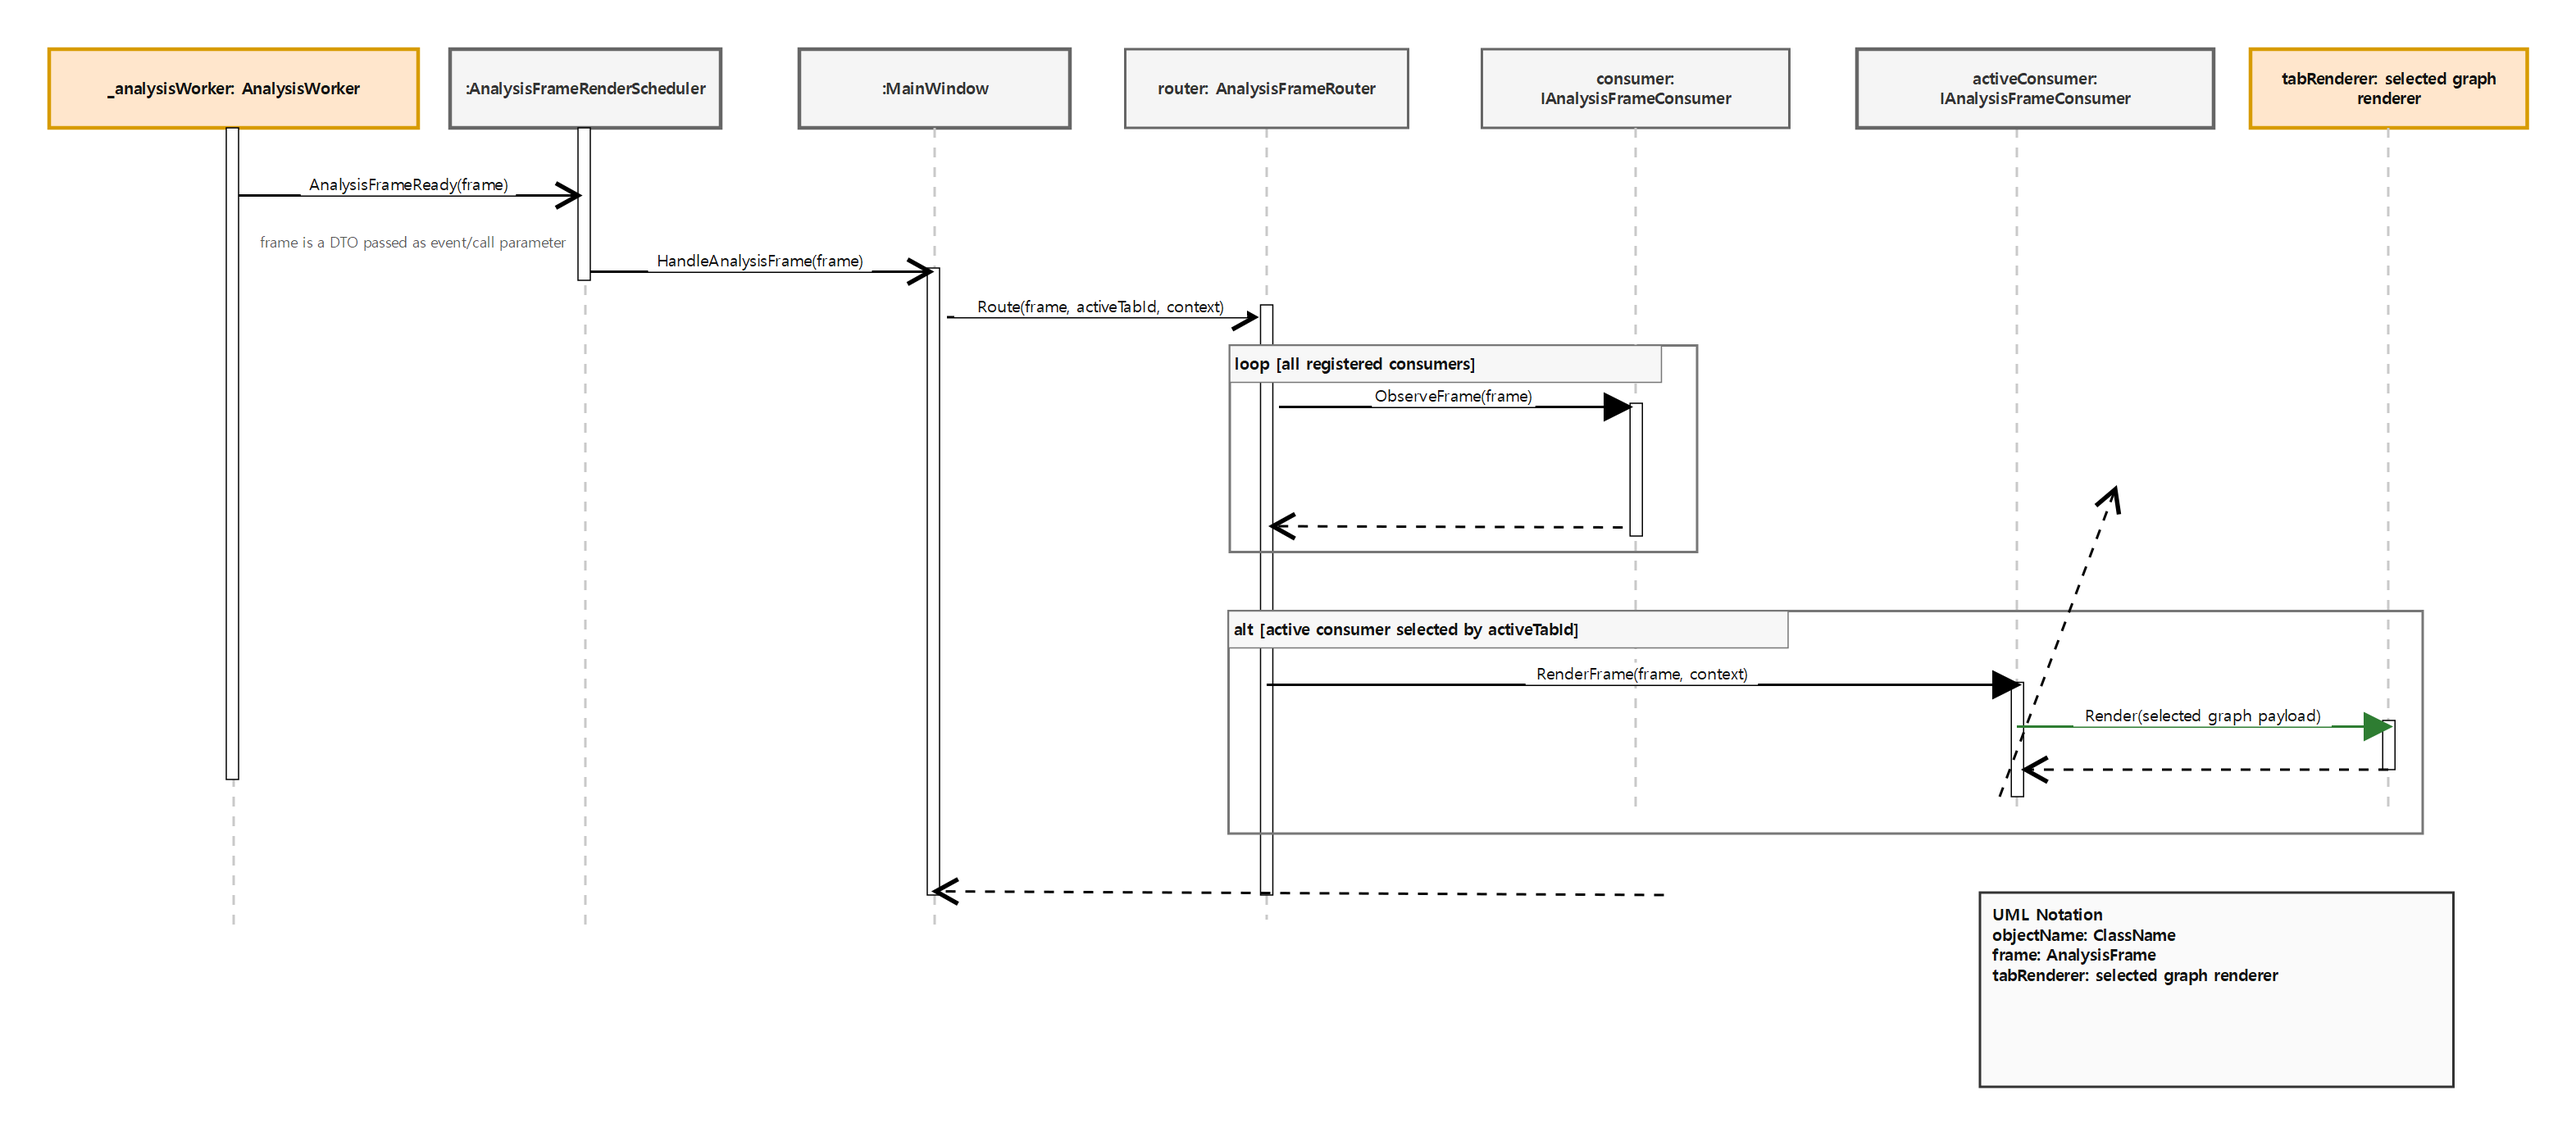
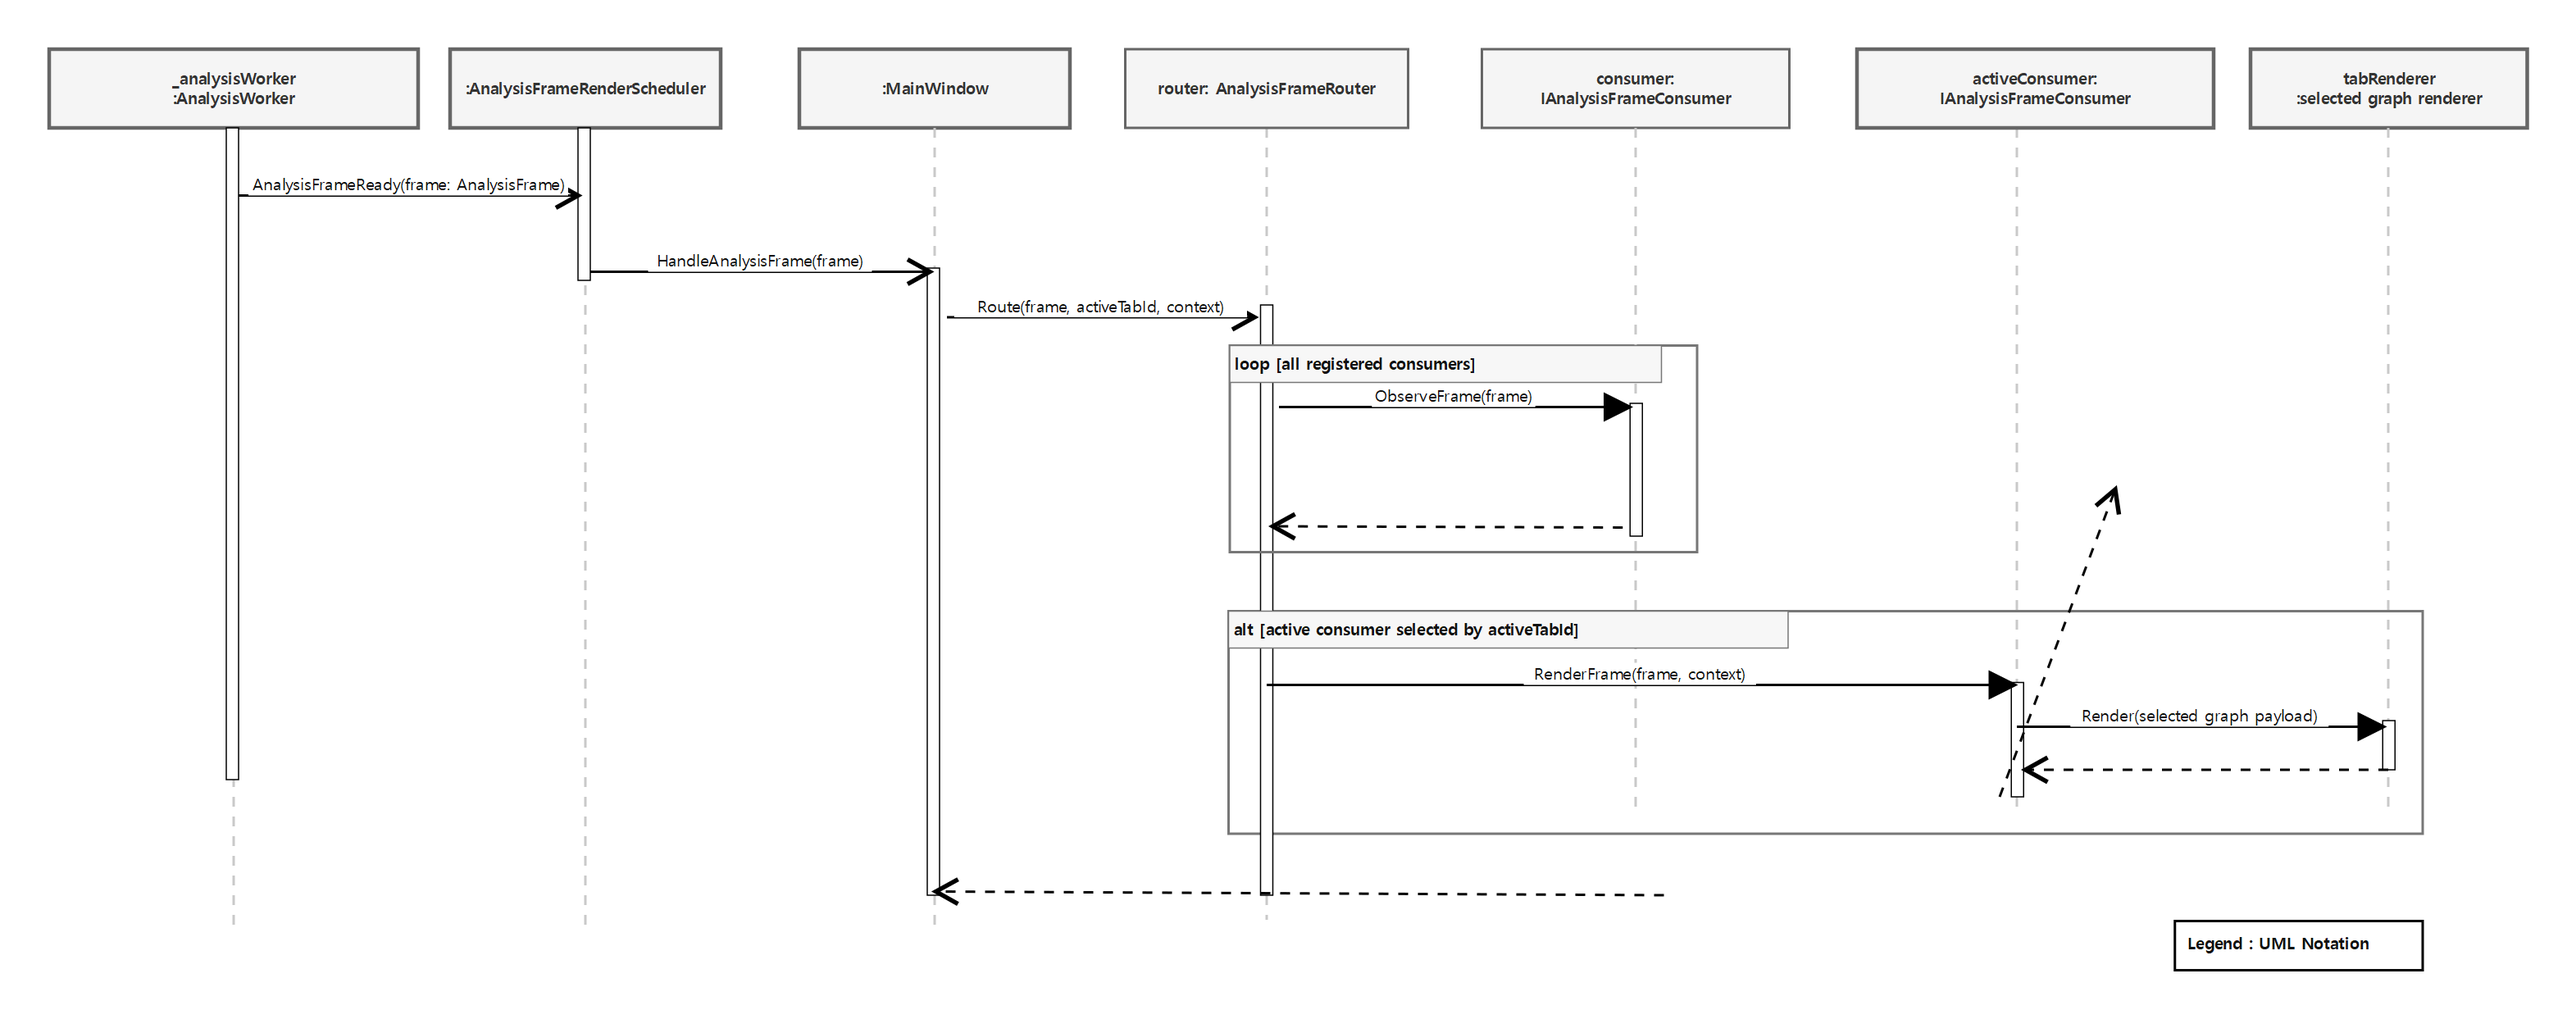
Update AnalysisFrame sequence diagram notes

diff --git a/FinalDemo/assets/2. AnalysysFrame-SequenceDiagram/2-AnalysisFrame-Sequence-Diagram.md b/FinalDemo/assets/2. AnalysysFrame-SequenceDiagram/2-AnalysisFrame-Sequence-Diagram.md
@@ -8,84 +8,91 @@ Rendered preview: [2. AnalysisFrame sequence diagram.png](<2. AnalysisFrame sequ
 
 ## Slide Purpose
 
-이 다이어그램은 `AnalysisFrame`이 Core 분석 결과에서 UI graph rendering까지 전달되는 책임 흐름을 보여준다. 코드 call stack을 1:1로 설명하는 그림이 아니라, 다음 아키텍처 포인트를 보여주는 발표용 sequence view다.
+이 다이어그램은 `AnalysisFrame`이 Core 분석 결과에서 UI graph rendering까지 전달되는 흐름을 보여주는 sequence view이다. 코드 call stack을 전부 보여주기보다, 아키텍처적으로 중요한 책임 분리를 설명하는 그림이다.
 
-- Core는 UI나 graph renderer를 직접 알지 않는다.
-- `AnalysisFrame`은 분석 결과를 묶은 DTO 인스턴스로, 이벤트/메서드 호출의 payload로 전달된다.
-- Router는 모든 graph consumer에 최신 frame을 observe시키고, 실제 rendering은 active graph consumer 하나만 수행한다.
-- 새 graph/display를 추가할 때 변경 지점이 consumer/renderer/catalog 쪽으로 제한된다.
+강조할 포인트는 세 가지다.
 
-Recommended caption under the diagram:
+- Core의 `_analysisWorker: AnalysisWorker`는 UI graph renderer를 직접 알지 않는다.
+- `frame: AnalysisFrame`은 독립 actor가 아니라 `AnalysisFrameReady(frame: AnalysisFrame)` 이벤트/호출에 실려 전달되는 DTO payload이다.
+- Router는 모든 consumer에 `ObserveFrame(frame)`을 호출하지만, 실제 rendering은 `activeTabId`로 선택된 active consumer 하나에만 수행한다.
 
-> Note: `frame` is an `AnalysisFrame` DTO instance carried as message payload, not modeled as an active lifeline.
+## UML Notation
+
+- `_analysisWorker`는 객체/인스턴스 이름이고, `:AnalysisWorker`는 타입이다.
+- `frame: AnalysisFrame`은 메시지 파라미터로 전달되는 DTO 인스턴스를 의미한다.
+- `consumer: IAnalysisFrameConsumer`는 등록된 graph consumer 중 하나를 의미한다.
+- `activeConsumer: IAnalysisFrameConsumer`는 `activeTabId`로 선택된 consumer를 의미한다.
+- `tabRenderer: selected graph renderer`는 활성 탭에 따라 달라지는 실제 graph renderer를 추상화한 표현이다.
 
 ## Component Roles
 
-| Component | Role in this view | What to emphasize |
+| Component | Role | Demo/Presentation Emphasis |
 |---|---|---|
-| `AnalysisWorker` | Core producer | 분석 pipeline 결과를 `AnalysisFrame`으로 묶어 발행한다. UI와 graph consumer를 직접 호출하지 않는다. |
-| `AnalysisFrameRenderScheduler` | UI render scheduler | 들어오는 frame 중 최신 frame을 UI rendering 쪽으로 dispatch한다. UI rendering 부하가 Core 분석 흐름을 직접 막지 않게 한다. |
-| `MainWindow` / UI callback | UI state provider | frame을 받아 현재 active tab, sample rate, review cursor 같은 render context를 붙여 router에 넘긴다. |
-| `AnalysisFrameRouter` | Routing control | 같은 `AnalysisFrame`을 모든 consumer에 `ObserveFrame(frame)`으로 전달하고, active tab에 해당하는 consumer에만 `RenderFrame(frame, context)`를 호출한다. |
-| `IAnalysisFrameConsumer` | Graph-specific adapter | 각 graph가 필요한 payload를 선택한다. 일부 consumer는 inactive 상태에서도 최신 image/history/beat data를 cache/update한다. |
-| `Renderer` | Graph render target | consumer가 고른 payload를 실제 plot/image로 그린다. |
+| `_analysisWorker: AnalysisWorker` | Core producer | 분석 결과를 `AnalysisFrame`으로 묶어 발행한다. UI나 graph renderer를 직접 호출하지 않는다. |
+| `:AnalysisFrameRenderScheduler` | UI render scheduler | 분석 thread에서 들어온 frame을 UI thread rendering 흐름으로 넘기고, 최신 frame 중심으로 처리한다. |
+| `:MainWindow` | UI callback/context owner | 현재 active tab과 rendering context를 붙여 router로 전달한다. |
+| `router: AnalysisFrameRouter` | Routing control | 모든 consumer에 observe를 수행하고, active consumer 하나만 render하도록 분기한다. |
+| `consumer: IAnalysisFrameConsumer` | Registered graph consumer | 각 graph가 필요한 최신 상태를 관찰하거나 cache/update할 수 있다. |
+| `activeConsumer: IAnalysisFrameConsumer` | Selected graph consumer | 현재 선택된 tab의 consumer만 실제 render path로 들어간다. |
+| `tabRenderer: selected graph renderer` | Graph-specific renderer | 선택된 graph view에 맞는 payload를 실제 plot/image로 렌더링한다. |
 
 ## Frame Flow
 
-1. `AnalysisWorker` publishes `AnalysisFrameReady(frame)`.
-   - 여기서 `frame`은 한 번의 analysis pass 결과를 담은 DTO 인스턴스다.
-   - Core는 이 frame을 발행할 뿐, 어떤 UI graph가 그릴지는 모른다.
+1. `_analysisWorker`가 `AnalysisFrameReady(frame: AnalysisFrame)`를 발행한다.
+   - 여기서 `frame`은 이번 analysis pass 결과를 담은 DTO이다.
+   - `frame`을 lifeline으로 세우지 않는 이유는, 스스로 동작을 시작하는 actor가 아니라 메시지 payload이기 때문이다.
 
-2. `AnalysisFrameRenderScheduler` dispatches the latest frame.
-   - UI가 모든 frame을 그대로 다 그리면 비용이 커질 수 있으므로, render scheduler가 UI 쪽 update 흐름을 조절한다.
-   - 발표에서는 "latest-wins scheduling" 정도로 설명하면 충분하다.
+2. `AnalysisFrameRenderScheduler`가 frame을 UI rendering 흐름으로 넘긴다.
+   - UI가 모든 분석 frame을 즉시 렌더링하면 비용이 커질 수 있다.
+   - scheduler는 UI 쪽 처리 빈도와 최신 frame 중심 처리를 담당한다.
 
-3. `MainWindow` / UI callback calls `Route(frame, activeTabId, context)`.
-   - UI layer가 active tab과 rendering context를 제공한다.
-   - `AnalysisFrame` 자체는 UI 상태를 모르고, UI layer가 필요한 context를 붙인다.
+3. `MainWindow`가 `Route(frame, activeTabId, context)`를 호출한다.
+   - `AnalysisFrame`은 분석 결과이고, UI layer가 현재 active tab과 render context를 붙인다.
 
-4. Router loops over all registered consumers.
-   - `ObserveFrame(frame)`은 모든 graph consumer가 최신 frame을 볼 기회를 준다.
-   - 중요한 점은 observe가 곧 rendering은 아니라는 것이다.
+4. Router가 모든 registered consumer에 `ObserveFrame(frame)`을 호출한다.
+   - 이것은 모든 graph consumer가 최신 frame을 볼 기회를 주는 단계이다.
+   - observe는 render와 다르다. inactive graph도 필요한 최신 상태만 가볍게 cache/update할 수 있다.
 
-5. Router renders only the active consumer.
-   - `activeTabId`로 선택된 consumer 하나만 `RenderFrame(frame, context)`를 수행한다.
-   - 이것이 여러 graph를 지원하면서도 rendering work를 active display 중심으로 제한하는 방식이다.
+5. Router가 `activeTabId`로 선택된 consumer 하나에만 `RenderFrame(frame, context)`를 호출한다.
+   - 실제 rendering work는 active graph 중심으로 제한된다.
+   - 이 구조가 graph 수가 늘어나도 UI rendering 부담을 제어하는 근거가 된다.
 
-6. Active consumer selects graph-specific payload and calls renderer.
-   - 예를 들어 Rate/Scope는 series와 marker를, Beat Noise는 beat segment payload를, Spectrogram은 image/metadata payload를 사용한다.
-   - consumer는 frame 전체를 다시 분석하지 않고, 자기 graph에 필요한 payload만 선택한다.
+6. Active consumer가 graph-specific payload를 골라 `tabRenderer`로 전달한다.
+   - 예: Rate/Scope는 series와 marker, Beat Noise는 beat segment payload, Spectrogram은 image/metadata를 사용한다.
+   - graph별 rendering logic은 Core 분석 pipeline과 분리된다.
 
 ## Presenter Script
 
-이 슬라이드는 `AnalysisFrame`이 graph rendering 쪽으로 전달되는 방식을 설명하는 sequence view입니다. 여기서 핵심은 `AnalysisFrame`을 별도의 active lifeline으로 그리지 않았다는 점입니다. `AnalysisFrame`은 runtime에 생성되는 DTO 인스턴스지만, 이 interaction에서는 스스로 메시지를 보내는 객체가 아니라 이벤트와 메서드 호출에 실려 전달되는 payload로 표현했습니다.
+이 그림은 `AnalysisFrame`이 분석 결과에서 graph rendering까지 어떻게 전달되는지 설명하는 sequence diagram입니다.
 
-왼쪽의 `AnalysisWorker`는 Core 분석 pipeline 쪽 producer입니다. 이 컴포넌트가 detection, metrics, image projection 같은 분석 결과를 `AnalysisFrame` 하나로 묶어서 발행합니다. 중요한 점은 Core 쪽 worker가 UI나 특정 graph renderer를 직접 알지 않는다는 것입니다. 이 구조가 Core 무의존성과 변경 범위 제한을 설명할 수 있는 지점입니다.
+왼쪽의 `_analysisWorker: AnalysisWorker`는 Core 쪽 분석 producer입니다. 이 worker는 detection, metrics, image projection 같은 분석 결과를 `AnalysisFrame` 하나로 묶어 `AnalysisFrameReady(frame: AnalysisFrame)` 이벤트로 발행합니다. 중요한 점은 Core worker가 UI나 특정 graph renderer를 직접 호출하지 않는다는 것입니다.
 
-다음 단계는 `AnalysisFrameRenderScheduler`입니다. 이 컴포넌트는 UI rendering 쪽으로 frame을 넘기는 scheduler 역할을 합니다. 모든 분석 frame을 그대로 다 그리려고 하면 UI rendering 비용이 커질 수 있기 때문에, scheduler는 최신 frame 중심으로 UI update를 전달합니다. 발표에서는 "latest-wins dispatch"라고 짧게 설명하면 됩니다.
+여기서 `frame: AnalysisFrame`은 별도 actor가 아니라 메시지에 실려 전달되는 DTO입니다. 그래서 lifeline으로 세우지 않고, 첫 번째 메시지의 파라미터로 표현했습니다. 이 표현이 `AnalysisFrame`의 역할을 가장 정확하게 보여줍니다.
 
-그 다음 `MainWindow` 또는 UI callback은 UI state를 제공하는 위치입니다. 여기서 현재 active tab, sample rate, review cursor 같은 rendering context가 만들어지고, `AnalysisFrameRouter`에 `Route(frame, activeTabId, context)` 형태로 전달됩니다. 즉, `AnalysisFrame`은 분석 결과이고, UI layer가 현재 어떤 graph를 보여줄지에 대한 context를 붙입니다.
+그 다음 `AnalysisFrameRenderScheduler`가 이 frame을 UI rendering 흐름으로 넘깁니다. UI는 모든 frame을 무조건 즉시 그리는 것이 아니라 최신 frame 중심으로 처리합니다. 이 부분은 rendering 비용을 제어하는 역할을 합니다.
 
-Router의 책임은 두 단계입니다. 먼저 모든 registered consumer에 `ObserveFrame(frame)`을 호출합니다. 이것은 모든 graph가 최신 frame을 관찰할 수 있게 하는 단계입니다. 하지만 observe는 render와 다릅니다. 일부 graph는 inactive 상태에서도 최신 image나 history를 cache할 수 있고, 필요 없는 consumer는 단순히 frame을 무시할 수도 있습니다.
+UI callback인 `MainWindow`는 현재 active tab과 rendering context를 붙여 `AnalysisFrameRouter`에 `Route(frame, activeTabId, context)` 형태로 넘깁니다. 즉 frame 자체는 분석 결과이고, 어떤 graph를 보여줄지에 대한 UI 상태는 UI layer에서 붙습니다.
 
-그 다음 router는 `activeTabId`로 선택된 consumer 하나에만 `RenderFrame(frame, context)`를 호출합니다. 이 부분이 active graph rendering path입니다. 여러 graph를 지원하지만 실제 rendering work는 active display 중심으로 제한됩니다. 이 구조 덕분에 새 graph를 추가할 때도 Core detection/metrics hot path를 건드리지 않고, consumer와 renderer를 추가하는 방향으로 변경 범위를 제한할 수 있습니다.
+Router의 핵심은 두 단계입니다. 먼저 모든 registered consumer에 `ObserveFrame(frame)`을 호출합니다. 이 단계는 모든 graph consumer가 최신 frame을 볼 수 있게 해줍니다. 하지만 observe는 render가 아닙니다.
 
-마지막으로 active consumer는 `AnalysisFrame`에서 자기 graph에 필요한 payload만 선택해서 renderer에 넘깁니다. 예를 들어 Rate/Scope는 series와 marker를 보고, Beat Noise는 beat segment data를 보고, Spectrogram은 image와 metadata를 봅니다. 이 말은 graph별 rendering logic이 Core 분석 pipeline과 분리되어 있다는 뜻입니다.
+그 다음 `activeTabId`로 선택된 `activeConsumer` 하나에만 `RenderFrame(frame, context)`를 호출합니다. 그래서 실제 graph rendering work는 현재 선택된 tab 하나에 집중됩니다. 이 구조 덕분에 graph가 늘어나도 Core hot path를 건드리지 않고, UI rendering 부담도 active graph 중심으로 제한할 수 있습니다.
+
+마지막 `tabRenderer: selected graph renderer`는 고정된 단일 클래스가 아니라, 선택된 graph에 따라 달라지는 실제 renderer를 추상화한 표현입니다. 예를 들어 Rate/Scope, Beat Noise, Spectrogram은 서로 다른 payload를 사용하지만, 전체 흐름은 같은 `AnalysisFrame` 계약과 router 구조를 통해 연결됩니다.
 
 ## If Asked
 
-**Q. Why is `AnalysisFrame` not drawn as a lifeline?**  
-`AnalysisFrame` exists at runtime, but here it is a DTO instance carried as message payload. It does not initiate behavior in this interaction, so modeling it as a parameter keeps the diagram focused.
+**Q. 왜 `AnalysisFrame`을 lifeline으로 그리지 않았나?**  
+`AnalysisFrame`은 runtime에 존재하는 객체이지만 이 interaction에서 행동 주체가 아니다. 이벤트/메서드 호출에 실려 전달되는 DTO payload이므로 메시지 파라미터로 표현하는 것이 더 정확하다.
 
-**Q. Why do all consumers observe the frame?**  
-Because inactive graphs may still need to keep latest state, such as image, metadata, history, or beat windows. Observe gives each consumer a chance to update lightweight state without forcing all graphs to render.
+**Q. 왜 모든 consumer에 observe를 호출하나?**  
+inactive graph도 최신 image, metadata, history, beat window 같은 상태를 cache/update해야 할 수 있기 때문이다. observe는 render가 아니라 lightweight state update 기회이다.
 
-**Q. Why render only the active consumer?**  
-Rendering every graph on every frame would increase UI work. The router keeps display work focused on the active graph while still allowing other consumers to observe latest data.
+**Q. 왜 active consumer만 render하나?**  
+모든 graph를 매 frame마다 렌더링하면 UI 비용이 커진다. active tab 하나만 render하여 display work를 제한한다.
 
-**Q. What architecture quality does this support?**  
-This supports modifiability and performance/resource control. New displays can be added through predictable UI-side extension points, while Core analysis remains independent of graph-specific rendering.
+**Q. 어떤 QAS와 연결되나?**  
+Modifiability와 performance/resource control을 설명하기 좋다. 새 graph display는 consumer/renderer/catalog 쪽으로 추가되고, Core analysis hot path와 graph-specific rendering은 분리된다.
 
 ## One-Sentence Summary
 
-`AnalysisFrame` is the stable DTO contract from Core to UI, and `AnalysisFrameRouter` separates "observe all graph consumers" from "render only the active graph consumer."
+`AnalysisFrame`은 Core와 UI 사이의 안정적인 DTO 계약이고, `AnalysisFrameRouter`는 "모든 graph consumer는 observe, active graph consumer만 render"라는 방식으로 책임과 비용을 분리한다.
